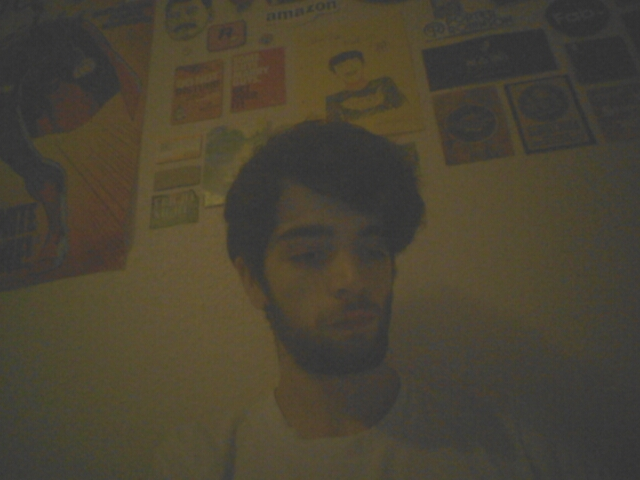
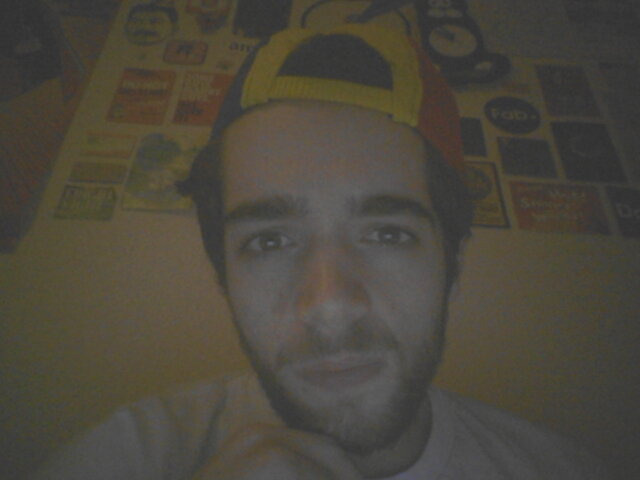
Improvments to effects

diff --git a/main.js b/main.js
@@ -5,6 +5,8 @@ var gm = require('gm'),
 	takePicture = require('./takePicture.js'),
 	downloadSnaps = require('./downloadSnaps.js'),
 
+	moment = require('moment'),
+
 	dir = '.',
 	inPath = dir + '/cam.jpeg',
     outPath = dir + '/out.jpeg';
@@ -20,9 +22,13 @@ setInterval(function(){
 	});
 }, 3000);
 
+// test image shit
+// fixImage(inPath, { width: 640, height: 480 }, function(){});
+
 function takeAndSend(usernames){
 	takePicture(inPath, function(){
 		gm(inPath).size(function(err, img){
+			
 			fixImage(inPath, img, function(){
 				sendSnap(10, outPath, usernames);
 			});
@@ -38,7 +44,16 @@ function fixImage(inPath, img, callback){
 	gm(inPath)
 		.rotate('black', 90)
 		.crop(x - 120, y, 0, 0)
-	
+  		.colorize(Math.random()*100, Math.random()*100, Math.random()*100)
+  		.contrast(2)
+
+		.fontSize(20)
+		.font('Courier')
+		.fill('#f5f5f5')
+		.drawText(15, 30, 'innospacecam1', 'NorthWest')
+		.drawText(15, 60, moment().format('h:mm A'), 'NorthWest')
+		.drawText(15, 85, moment().format('D/M/YY'), 'NorthWest')
+		.drawText(0, 80, 'cam.rose.digital', 'South')
 
 		.write(outPath, function(err){
 			if (err) return console.dir(arguments)
@@ -47,6 +62,7 @@ function fixImage(inPath, img, callback){
 				gm().subCommand('composite')
 					.gravity('center')
 					.in('-compose', 'Over', './watermark.png', outPath)
+
 
 					.write(outPath, function(err){
 						if (err) return console.dir(arguments)
